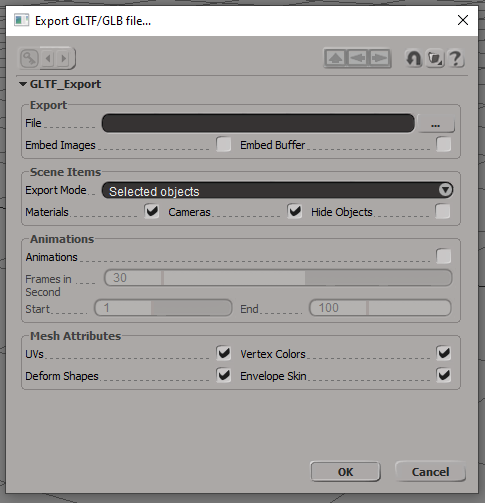
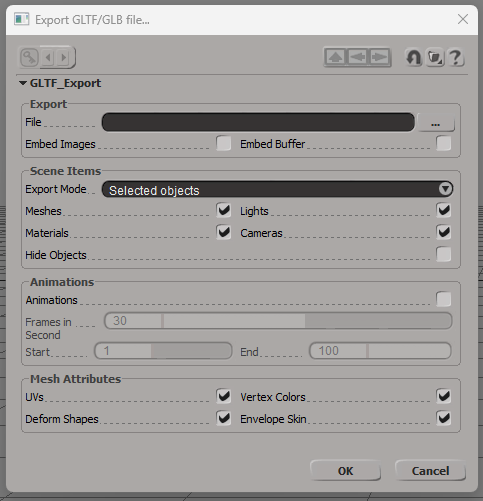
Update gltf page
release R.5

diff --git a/gltfPage.html b/gltfPage.html
@@ -9,13 +9,14 @@
 		<div class="content_wrapper">
         <div class="content">
 			<img src="images/gltf_banner.png" class="center"/>
-			<p class="lastUpdate">Last update: 11.03.2023</p>
+			<p class="lastUpdate">Last update: 11.11.2023</p>
 			<p class="backLink"><a href="index.html">Back to the main page</a></p>
 			
 			<p><b>Description: </b> This addon allows to import/export *.gltf and *.glb files into/from Softimage. It based on <a class="generalLink" href="https://github.com/syoyo/tinygltf">tinygltf</a> library. The addon supports the following items for import from gltf/glb scenes:</p>
 			<ul class="left">
 				<li> Scene hierarchy
 				<li> Cameras
+				<li> Lights
 				<li> Polygonmesh objects. Import the following mesh attributes:
 					<ul class="left">
 						<li> Vertex positions
@@ -33,6 +34,7 @@
 			<p>For export the addon supports the following scene items:</p>
 			<ul class="left">
 				<li> Cameras
+				<li> Lights
 				<li> Polygonmesh objects. Export the following mesh attributes:
 					<ul class="left">
 						<li> Vertex positions
@@ -48,7 +50,7 @@
 				<li> Transform animations
 			</ul>
 			
-			<p><b>Download: </b><a class="generalLink" href="https://github.com/Tugcga/Softimage-GLTF-IO/releases/download/r.4/Softimage_GLTF_r4.xsiaddon">Softimage GLTF R.4</a>. There are <a class="generalLink" href="https://github.com/Tugcga/Softimage-GLTF-IO">sources</a> of the addon on the GitHub.</p>
+			<p><b>Download: </b><a class="generalLink" href="https://github.com/Tugcga/Softimage-GLTF-IO/releases/download/r.5/Softimage_GLTF_r5.xsiaddon">Softimage GLTF R.5</a>. There are <a class="generalLink" href="https://github.com/Tugcga/Softimage-GLTF-IO">sources</a> of the addon on the GitHub.</p>
 			
 			<p><b>How to use: </b> Install as usual addon for Softimage.</p>
 			
@@ -110,6 +112,8 @@
 				<li> Embed Images - if activated, then all textures for materials will be saved inside output file using base64 encoder. If the parameter is deactivated, then textures will be copies to the same directory as output file
 				<li> Embed Buffer - if activated, then (as for images) binary scene data will be saved inside output file. If deactivated, then this file will be created in the same directory as output file with the same name (but extension *.bin)
 				<li> Export Mode - if the mode is <i>Selected objects</i>, then only selected objects with all sub-objects will be exported. The mode <i>Whole scene</i> is equivalent to select the scene root node
+				<li> Meshes - export polygonmesh objects or not
+				<li> Lights - export light sources or not
 				<li> Materials - export materials or not
 				<li> Cameras - export camera objects or not. If deactivated, then all cameras will be exported as null objects
 				<li> Hide Objects - if activated, then hidden (from the view) objects will be exported. If deactivated, then all hidden objects are excluded from exported objects with all sub-objects
@@ -144,7 +148,7 @@
 			
 			<p>Addon introduce two command, which can be used in scripting.</p>
 			
-			<p>Command for import: <code>Application.GLTFImport(file path, [import_normals], [import_uvs], [import_colors], [import_shapes], [import_skin], [import_materials], [import_cameras], [import_animations], [animation_frames_per_second])</code> All arguments, except the first one, are optional</p>
+			<p>Command for import: <code>Application.GLTFImport(file path, [import_normals], [import_uvs], [import_colors], [import_shapes], [import_skin], [import_materials], [import_cameras], [import_lights], [import_animations], [animation_frames_per_second])</code> All arguments, except the first one, are optional</p>
 			
 			<ul class="left">
 				<li> <code>file path</code>: string. This is a full path of the file to import
@@ -155,11 +159,12 @@
 				<li> <code>[import_skin]</code>: true or false. Is import skin envelope data. By default is true
 				<li> <code>[import_materials]</code>: true or false. Is import materials from the input files and assigned it to the scene objects. By default is true
 				<li> <code>[import_cameras]</code>: true or false. Is import cameras from the input file. By default is true
+				<li> <code>[import_lights]</code>: true or false. Is import lights from the input file. By default is true
 				<li> <code>[import_animations]</code>: true or false. Is import transform animations. By default is false
 				<li> <code>[animation_frames_per_second]</code>: float. The number of frames in one second for animations in the input file. By default is 30.0
 			</ul>
 			
-			<p>Command for export: <code>Application.GLTFExport(objects, file_path, [embed_images], [embed_buffers], [export_uvs], [export_colors], [export_shapes], [export_skin], [export_materials], [export_cameras], [export_animations], [animation_frames_per_second], [animation_start], [animation_end], [export_hide])</code> All arguments, except the first and the second, are optional</p>
+			<p>Command for export: <code>Application.GLTFExport(objects, file_path, [embed_images], [embed_buffers], [export_uvs], [export_colors], [export_shapes], [export_skin], [export_meshes], [export_lights], [export_materials], [export_cameras], [export_animations], [animation_frames_per_second], [animation_start], [animation_end], [export_hide])</code> All arguments, except the first and the second, are optional</p>
 			
 			<ul class="left">
 				<li> <code>objects</code>: array. The array of objects to export
@@ -170,6 +175,8 @@
 				<li> <code>[export_colors]</code>: true or false. Is export mesh vertex colors. By default is true
 				<li> <code>[export_shapes]</code>: true or false. Is export mesh shape deforms as point position targets. By default is true
 				<li> <code>[export_skin]</code>: true or false. Is export mesh envelope weights. By default is true
+				<li> <code>[export_meshes]</code>: true or false. Is export polygonmesh objects. By default is true. If it's false, then export each mesh as null node
+				<li> <code>[export_lights]</code>: true or false. Is export light sources. By default is true
 				<li> <code>[export_materials]</code>: true or false. Is export materials, which used by exported mesh objects. By default is true
 				<li> <code>[export_cameras]</code>: true or false. Is export camera objects. By default is true
 				<li> <code>[export_animations]</code>: true or false. Is export objects transform animations. By default is true

diff --git a/styles.css b/styles.css
@@ -1,7 +1,7 @@
 p.banner 
 {
     margin:auto;
-    font-size: 64;
+    font-size: 64px;
 	color:#555;
 	text-decoration: none;
 	font-family: Arial, sans-serif, Helvetica, Verdana;
@@ -16,7 +16,7 @@ p.banner
 
 td.table01
 {
-	padding: 0 10 10 10;
+	padding: 0 10px 10px 10px;
 	vertical-align: top;
 }
 
@@ -60,7 +60,7 @@ a.anchor_div
 	background: #7e7e7e;
 	text-decoration: none;
 	color: #fff;
-	margin: 25 50;
+	margin: 25px 50px;
 }
 
 a.anchor_div:hover
@@ -70,41 +70,41 @@ a.anchor_div:hover
 
 p
 {
-	padding: 10;
+	padding: 10px;
 }
 
 p.link_left
 {
-	padding: 5 10;
+	padding: 5px 10px;
 	text-align: left;
-	font-size: 24;
+	font-size: 24px;
 }
 
 p.link_right
 {
-	padding: 5 10;
+	padding: 5px 10px;
 	text-align: right;
-	font-size: 16;
+	font-size: 16px;
 }
 
 p.section_title
 {
-	margin: 50 50 25 50;
+	margin: 50px 50px 25px 50px;
 	padding: 0;
-	font-size: 24;
+	font-size: 24px;
 }
 
 h1
 {
 	text-align: center;
-	font-size: 32;
+	font-size: 32px;
 	margin: 0;
 }
 
 p.backLink{
 	text-align: right;
 	padding: 0 0 0 0;
-	margin: 0 0 10 0;
+	margin: 0 0 10px 0;
 }
 p.backLink a{
 	font-size: small;
@@ -126,7 +126,7 @@ p.lastUpdate{
 img.center 
 {
 	display:block; 
-	margin: 10 auto;
+	margin: 10px auto;
 	max-height: 100%;
     max-width: 100%;
 }
@@ -139,32 +139,32 @@ a.generalLink
 
 ul.left
 {
-	padding: 0 25;
+	padding: 0 25px 10px 25px;
 }
 
 ul.leftSpacing
 {
-	padding: 0 45;
+	padding: 0 45px;
 }
 
 ol
 {
-	padding: 0 45;
+	padding: 0 45px;
 }
 
 iframe.youtubeEmbed
 {
 	frameborder: 0;
 	display:block; 
-	margin: 10 auto;
+	margin: 10px auto;
 	width: 100%;
-	height: 576;
+	height: 576px;
 }
 
 code
 {
 	font-family: monospace;
-	font-size: 16;
+	font-size: 16px;
 	background-color: Gainsboro;
 	padding: 0px 5px;
 }
